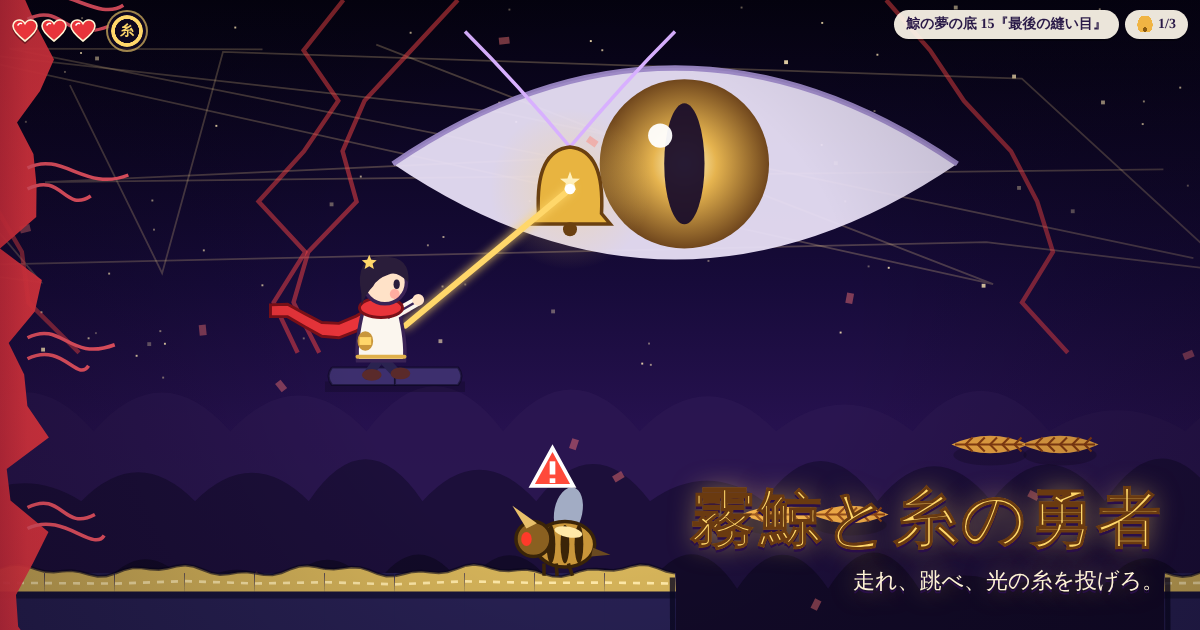
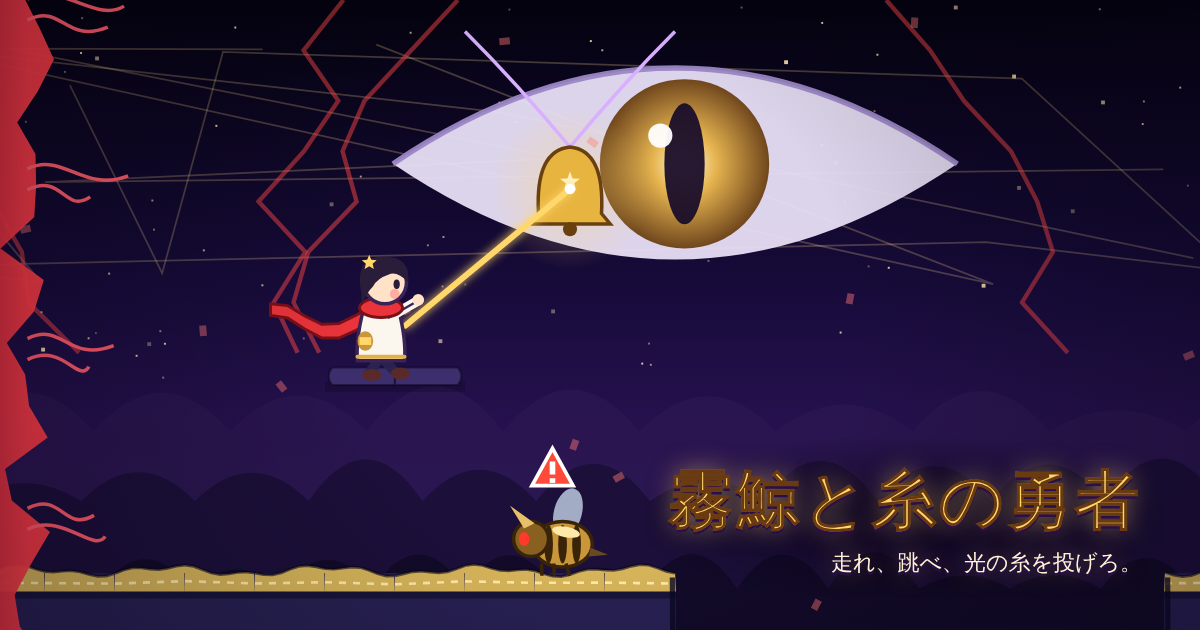
[GAME] 霧鯨と糸の勇者：レビュー指摘の反映（タッチ用ヒント、背景の鯨を控えめに、HUD・共有画像の整理、スマホの視野）
Claude-Session: https://claude.ai/code/session_01MokQnt7AyWkb7A3uAYuoAR

diff --git a/site/games/mist-whale-thread-hero/game.js b/site/games/mist-whale-thread-hero/game.js
@@ -45,7 +45,7 @@ function resize() {
 window.addEventListener('resize', resize);
 try { new ResizeObserver(() => resize()).observe(document.getElementById('cv')); } catch { /* 古いブラウザは resize だけ */ }
 
-function viewScale() { return Math.min(H / 360, W / 270); }
+function viewScale() { return Math.min(H / 360, W / 300); }
 
 // ───────────────────────── 入力 ─────────────────────────
 const held = { left: false, right: false, jump: false };
@@ -106,6 +106,7 @@ function burst(x, y, color, n = 12, sp = 160, life = 0.6, size = 3) {
   }
 }
 function ring(x, y, color, r = 60, life = 0.8) { rings.push({ x, y, color, r, life, max: life }); }
+function hideToast() { $('toast').classList.remove('show'); }
 function toast(msg, ms = 1400) {
   const el = $('toast'); el.textContent = msg; el.classList.add('show');
   clearTimeout(toast.t); toast.t = setTimeout(() => el.classList.remove('show'), ms);
@@ -175,7 +176,7 @@ function updateHud(pop = false) {
   [...hearts.children].forEach((h, i) => { h.classList.toggle('lost', i >= n); if (pop && i === n) { h.classList.remove('pop'); void h.getBBox?.(); h.classList.add('pop'); } });
   lastHearts = n;
   const ch = L.CHAPTERS[st.def.chapter];
-  $('stageName').textContent = W < 520 ? `${st.index + 1}『${st.def.name}』` : `${ch.name} ${st.index + 1}『${st.def.name}』`;
+  $('stageName').textContent = W < 520 ? `${ch.sub} ${st.index + 1}` : `${ch.name} ${st.index + 1}『${st.def.name}』`;
   $('starCount').querySelector('b').textContent = `${st.starsGot.size}/3`;
 }
 function updateSpool() {
@@ -196,6 +197,7 @@ function updateHint() {
   let text = '';
   for (const h of st.def.hints || []) if (col >= h.c && col < h.c + 14) text = h.text;
   if (st.index >= 3 && save.stages[st.index]?.clear) text = '';
+  if (text && pad.classList.contains('show')) text = text.replace('← → で走る ／ Space で跳ぶ', '◀▶で走る／ジャンプで跳ぶ').replace('（J ／ 糸ボタン）', '（糸ボタン）').replace('もう一度 J で', 'もう一度 糸で');
   if (text !== hintText) { hintText = text; const el = $('hint'); el.textContent = text; el.classList.toggle('off', !text); }
 }
 
@@ -231,7 +233,7 @@ function render(dt) {
   const s = viewScale(); const vw = W / s; const vh = H / s;
   const p = st.player;
   // カメラ
-  const lead = p.face > 0 ? 0.38 : 0.62;
+  const lead = p.face > 0 ? 0.33 : 0.67;
   let tx = p.x + p.w / 2 - vw * lead;
   const lw = st.w * L.TS;
   tx = lw <= vw ? (lw - vw) / 2 : Math.max(0, Math.min(lw - vw, tx));
@@ -248,6 +250,7 @@ function render(dt) {
   const bells = st.bells.filter((b) => !b.clock);
   const rung = bells.filter((b) => b.rung).length;
   A.drawBackground(ctx, ch, cam.x, cam.y, vw, vh, t, {
+    whaleDim: true,
     eye: st.index === 14 ? 0.95 : ch === 2 ? 0.35 : 0,
     cracks: st.index === 14 ? 1 - rung / 3 : ch === 2 ? 0.4 : 0,
     gold: st.index === 14 ? rung / 3 : 0,
@@ -360,7 +363,7 @@ function frame(now) {
 
 // ───────────────────────── クリアと結果 ─────────────────────────
 function finishStage() {
-  mode = 'result';
+  mode = 'result'; hideToast(); updateHud();
   const res = L.stageResult(st);
   const before = L.unlockedColors(save);
   const firstClear = !save.stages[res.index]?.clear;
@@ -464,7 +467,7 @@ $('startBtn').addEventListener('click', () => {
 // ───────────────────────── 一時停止 ─────────────────────────
 function openPause() {
   if (mode !== 'play') return;
-  mode = 'pause';
+  mode = 'pause'; hideToast();
   $('pauseInfo').textContent = `${st.index + 1}『${st.def.name}』 星鈴 ${st.starsGot.size}/3 ・ 被弾 ${st.hits}`;
   $('pause').hidden = false; $('resumeBtn').focus({ preventScroll: true });
 }
@@ -565,6 +568,7 @@ function setupOg() {
   st = L.createLevelState(14);
   const bell = st.bells.reduce((a, b) => (b.x < a.x ? b : a));
   st.ogBell = bell;
+  st.tiles = st.tiles.map((r) => r.replace(/X/g, '.'));
   for (const e of st.enemies) if (e.kind === 'eater') e.dead = true;
   st.player.x = bell.x - 120; st.player.y = 7.4 * L.TS; st.player.onGround = false; st.player.vx = 200; st.player.vy = -120; st.player.face = 1; st.player.anim = 30; st.player.invuln = 0;
   st.thread = { phase: 'hold', t: 0, target: { kind: 'bell', ref: bell }, release: 99 };

diff --git a/site/games/mist-whale-thread-hero/style.css b/site/games/mist-whale-thread-hero/style.css
@@ -34,7 +34,7 @@ button:focus-visible, a:focus-visible { outline: 3px solid #7fd4ff; outline-offs
 .chip { background: rgba(255,248,236,.92); color: var(--ink); border-radius: 999px; padding: 6px 12px; font-size: 14px; font-weight: 700; border: 0; box-shadow: 0 2px 0 rgba(0,0,0,.3); white-space: nowrap; line-height: 1.2; font-family: inherit; }
 .chip.btn { pointer-events: auto; min-height: 34px; }
 .chip.icon { width: 38px; padding: 6px 0; }
-.stage-name { min-width: 0; overflow: hidden; text-overflow: ellipsis; flex: 0 1 auto; }
+.stage-name { min-width: 0; max-width: 46vw; overflow: hidden; text-overflow: ellipsis; flex: 0 1 auto; }
 .stars { display: flex; align-items: center; gap: 5px; }
 .bell-ico { width: 16px; height: 16px; display: inline-block; background: radial-gradient(circle at 50% 85%, #8a5a10 0 14%, transparent 15%), radial-gradient(ellipse 48% 60% at 50% 55%, var(--gold2) 0 98%, transparent 100%); }
 
@@ -159,10 +159,10 @@ button:focus-visible, a:focus-visible { outline: 3px solid #7fd4ff; outline-offs
 .arcade-link { height: 22px; text-align: center; font-size: 11px; opacity: .55; line-height: 22px; font-family: system-ui, sans-serif; }
 .arcade-link a { color: #e9dcff; }
 
-body.og .pad, body.og .arcade-link, body.og .hint, body.og #menuBtn { display: none !important; }
+body.og .pad, body.og .arcade-link, body.og .hint, body.og .hud { display: none !important; }
 body.og .og-card { position: absolute; right: 36px; bottom: 34px; text-align: right; }
 .og-card { display: none; }
-body.og .og-card { display: block; text-shadow: 0 3px 0 #2a0f4a, 0 0 24px rgba(255,215,106,.5); pointer-events: none; }
+body.og .og-card { display: block; padding: 18px 22px; border-radius: 24px; background: radial-gradient(ellipse at center, rgba(10,4,26,.75), rgba(10,4,26,0) 75%); text-shadow: 0 3px 0 #2a0f4a, 0 0 24px rgba(255,215,106,.5); pointer-events: none; }
 .og-card .t { font-size: 64px; font-weight: 800; color: var(--gold); -webkit-text-stroke: 1px #6a3a10; letter-spacing: .05em; }
 .og-card .s { font-size: 22px; color: #fff4d6; margin-top: 4px; }
 

diff --git a/site/games/mist-whale-thread-hero/art.js b/site/games/mist-whale-thread-hero/art.js
@@ -129,7 +129,7 @@ function bgMeadow(ctx, P, camX, vw, vh, horizon, t, opts) {
   // 遠くを泳ぐ霧鯨
   const s = Math.max(0.35, Math.min(vw, vh * 1.6) / 1100);
   const wx = vw * 0.68 - ((camX * 0.06) % (vw * 2));
-  if (!opts.noWhale) drawWhale(ctx, wx, horizon - vh * 0.33, s, t, { color: '#e9dff4', shade: '#b9a6d6', grass: false, eye: true });
+  if (!opts.noWhale) { ctx.save(); if (opts.whaleDim) ctx.globalAlpha = 0.45; drawWhale(ctx, wx, horizon - vh * 0.36, s * (opts.whaleDim ? 0.8 : 1), t, { color: opts.whaleDim ? '#b9a6d6' : '#e9dff4', shade: '#8f78b8', grass: false, eye: true }); ctx.restore(); }
   cloudBand(ctx, P.far, camX, 0.12, horizon - 30, vw, 1.2, 3, 0.9);
   cloudBand(ctx, P.mid, camX, 0.25, horizon + 10, vw, 1, 11);
   cloudBand(ctx, P.near, camX, 0.42, horizon + 60, vw, 0.8, 23);
